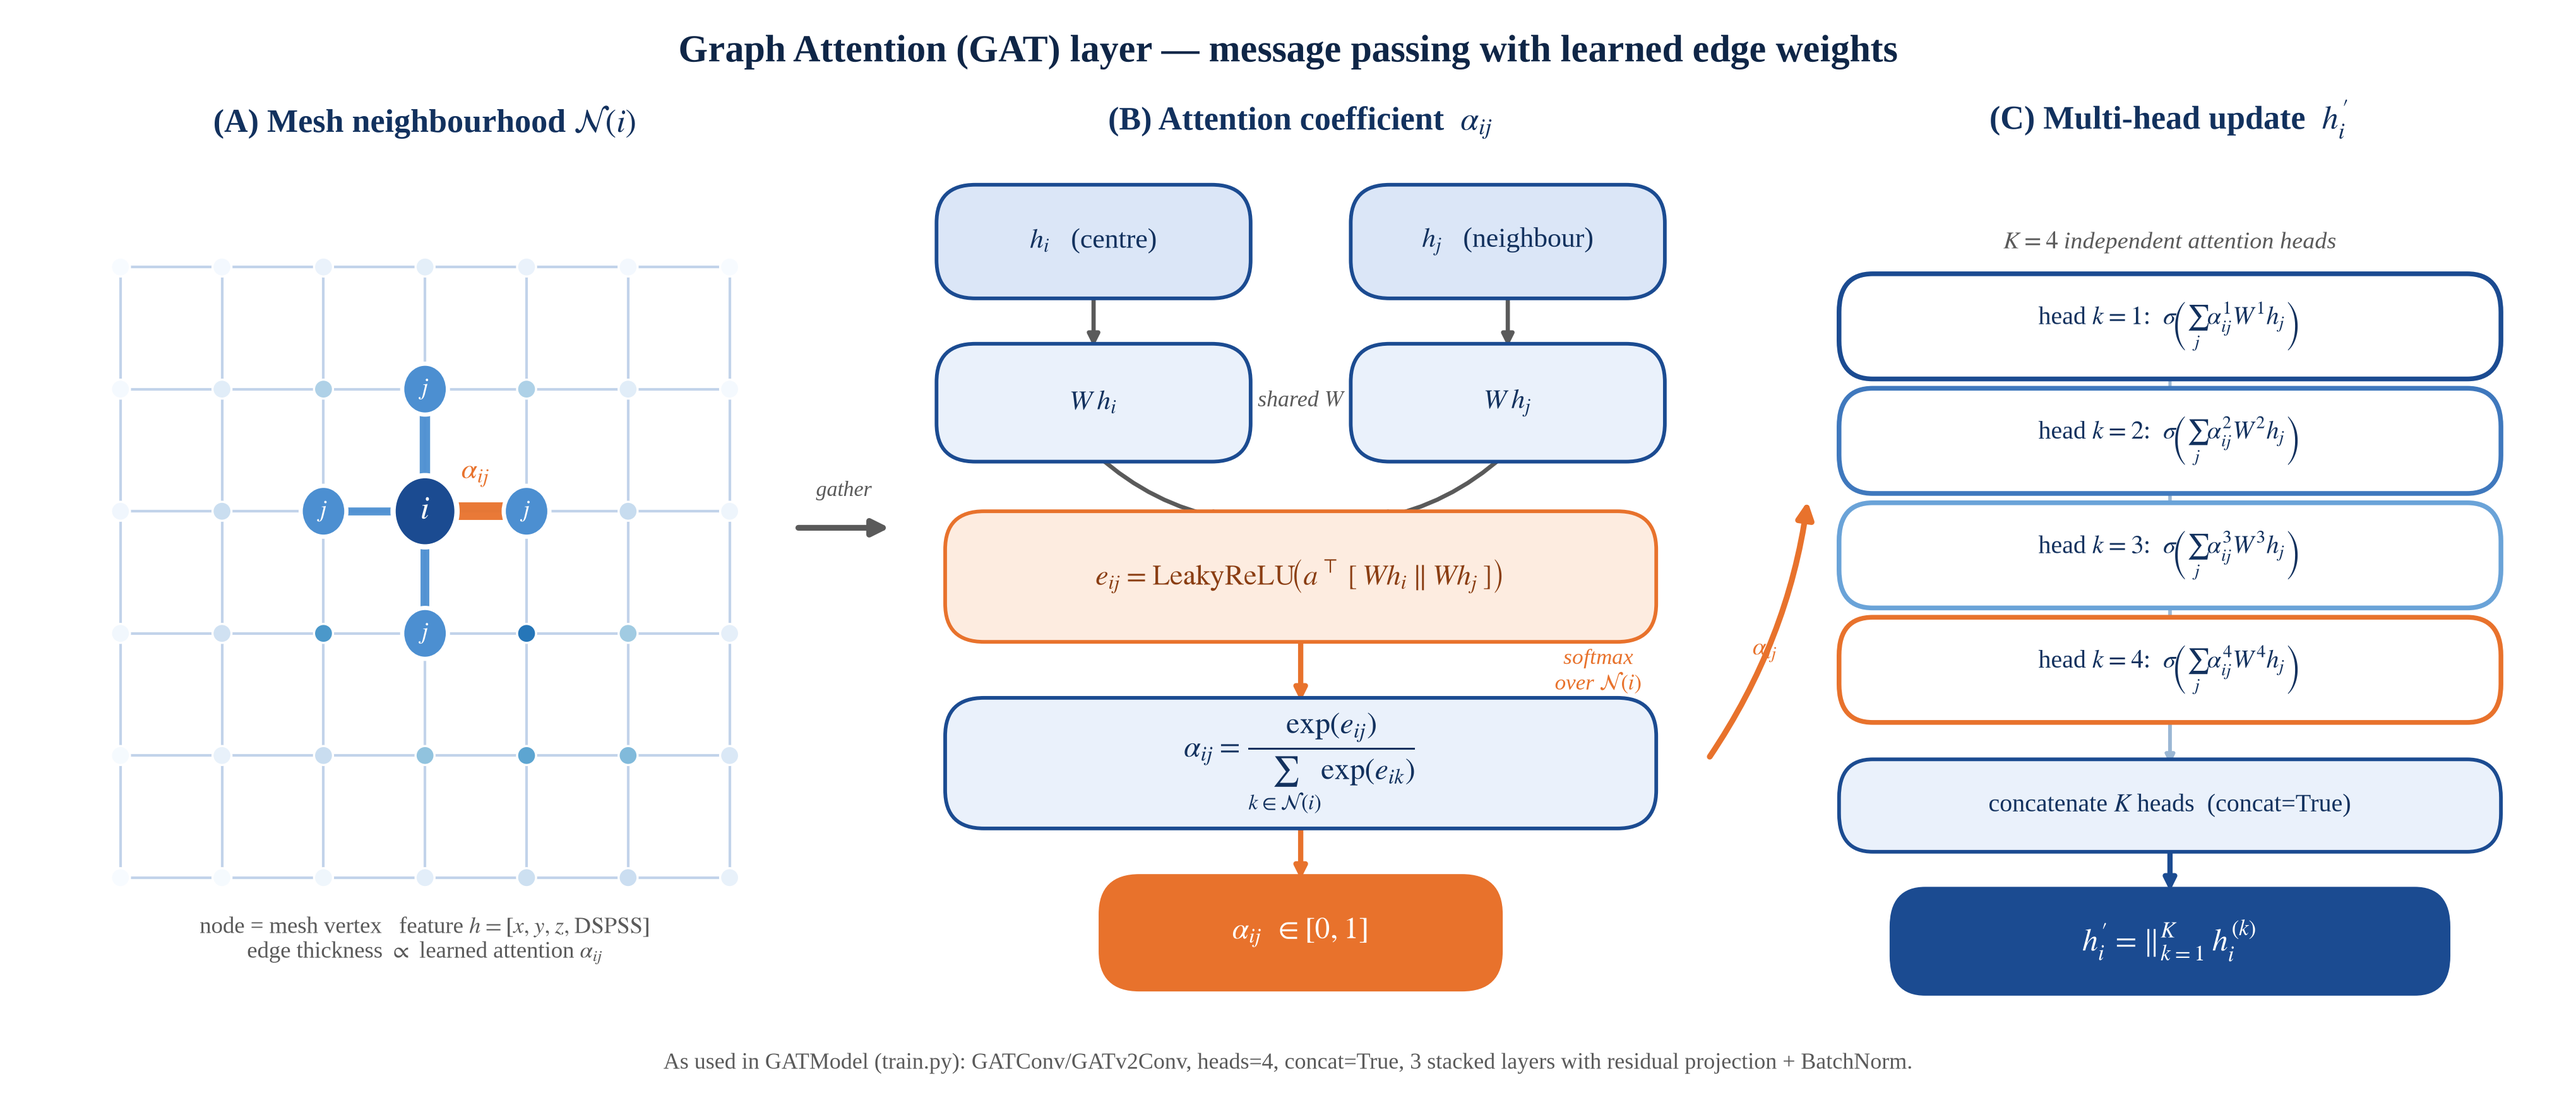
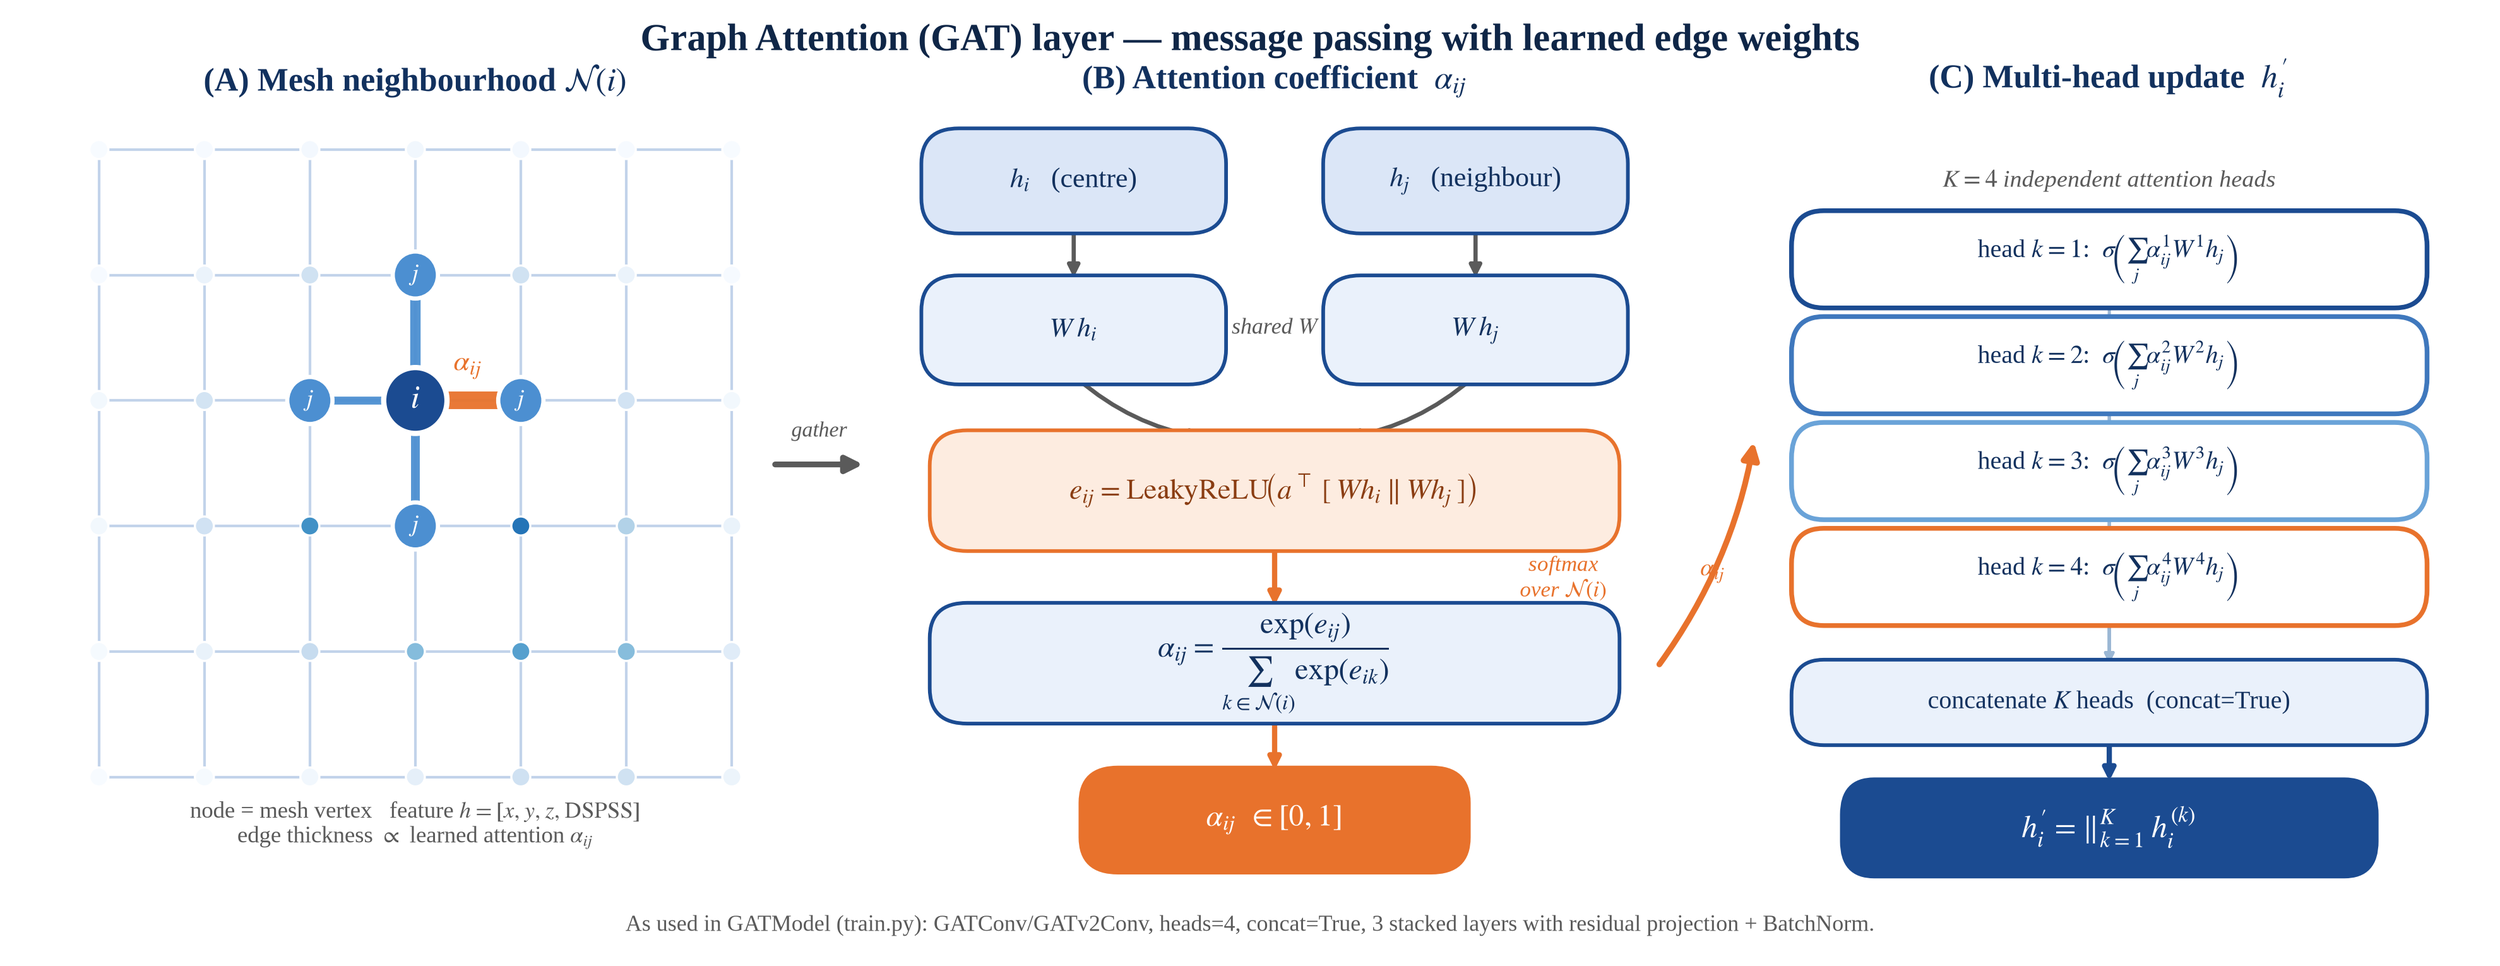
GAT figure: tighten layout and reduce whitespace
Denser figure (13.0x4.9): taller panels, panel titles/suptitle/caption
pulled closer, and the panel-A quad grid extended to fill its axes.

Claude-Session: https://claude.ai/code/session_01EQtaPSBec7TYZp6qjrnCT6

diff --git a/paper_figs/plot_gat_mechanism.py b/paper_figs/plot_gat_mechanism.py
@@ -103,19 +103,19 @@ def _arrow(ax, p0, p1, color=C_GREY, lw=1.6, style="-|>", ms=9, ls="-", rad=0.0)
 
 
 # ── figure / panels ─────────────────────────────────────────────────────────
-fig = plt.figure(figsize=(13.4, 5.6))
-gsA = fig.add_axes([0.010, 0.07, 0.30, 0.80]); gsA.axis("off")
-gsB = fig.add_axes([0.335, 0.07, 0.34, 0.80]); gsB.axis("off")
-gsC = fig.add_axes([0.700, 0.07, 0.295, 0.80]); gsC.axis("off")
+fig = plt.figure(figsize=(13.0, 4.9))
+gsA = fig.add_axes([0.008, 0.065, 0.306, 0.845]); gsA.axis("off")
+gsB = fig.add_axes([0.340, 0.065, 0.340, 0.845]); gsB.axis("off")
+gsC = fig.add_axes([0.703, 0.065, 0.292, 0.845]); gsC.axis("off")
 for ax in (gsA, gsB, gsC):
     ax.set_xlim(0, 1); ax.set_ylim(0, 1)
 
 # panel titles
-gsA.text(0.5, 1.02, r"(A) Mesh neighbourhood $\mathcal{N}(i)$",
+gsA.text(0.5, 1.005, r"(A) Mesh neighbourhood $\mathcal{N}(i)$",
          ha="center", va="bottom", fontsize=12.5, fontweight="bold", color="#12315e")
-gsB.text(0.5, 1.02, r"(B) Attention coefficient  $\alpha_{ij}$",
+gsB.text(0.5, 1.005, r"(B) Attention coefficient  $\alpha_{ij}$",
          ha="center", va="bottom", fontsize=12.5, fontweight="bold", color="#12315e")
-gsC.text(0.5, 1.02, r"(C) Multi-head update  $h_i'$",
+gsC.text(0.5, 1.005, r"(C) Multi-head update  $h_i'$",
          ha="center", va="bottom", fontsize=12.5, fontweight="bold", color="#12315e")
 
 # ============================================================================
@@ -126,8 +126,8 @@ from matplotlib.collections import LineCollection
 
 rng = np.random.default_rng(7)
 nx, ny = 7, 6
-xs = np.linspace(0.10, 0.90, nx)
-ys = np.linspace(0.15, 0.87, ny)
+xs = np.linspace(0.08, 0.92, nx)
+ys = np.linspace(0.14, 0.94, ny)
 gx, gy = np.meshgrid(xs, ys)                     # regular square grid (no jitter)
 px, py = gx.ravel(), gy.ravel()
 idx = np.arange(nx * ny).reshape(ny, nx)         # (row, col) -> flat index
@@ -262,8 +262,8 @@ figax.text(0.688, 0.40, r"$\alpha_{ij}$", ha="center", fontsize=9.5, color=C_ACC
 
 # suptitle / caption
 fig.suptitle("Graph Attention (GAT) layer — message passing with learned edge weights",
-             fontsize=14.5, fontweight="bold", color="#0f2647", y=0.985)
-fig.text(0.5, 0.005,
+             fontsize=14.5, fontweight="bold", color="#0f2647", y=0.995)
+fig.text(0.5, 0.012,
          "As used in GATModel (train.py): GATConv/GATv2Conv, heads=4, concat=True, "
          "3 stacked layers with residual projection + BatchNorm.",
          ha="center", va="bottom", fontsize=8.6, color=C_GREY)
